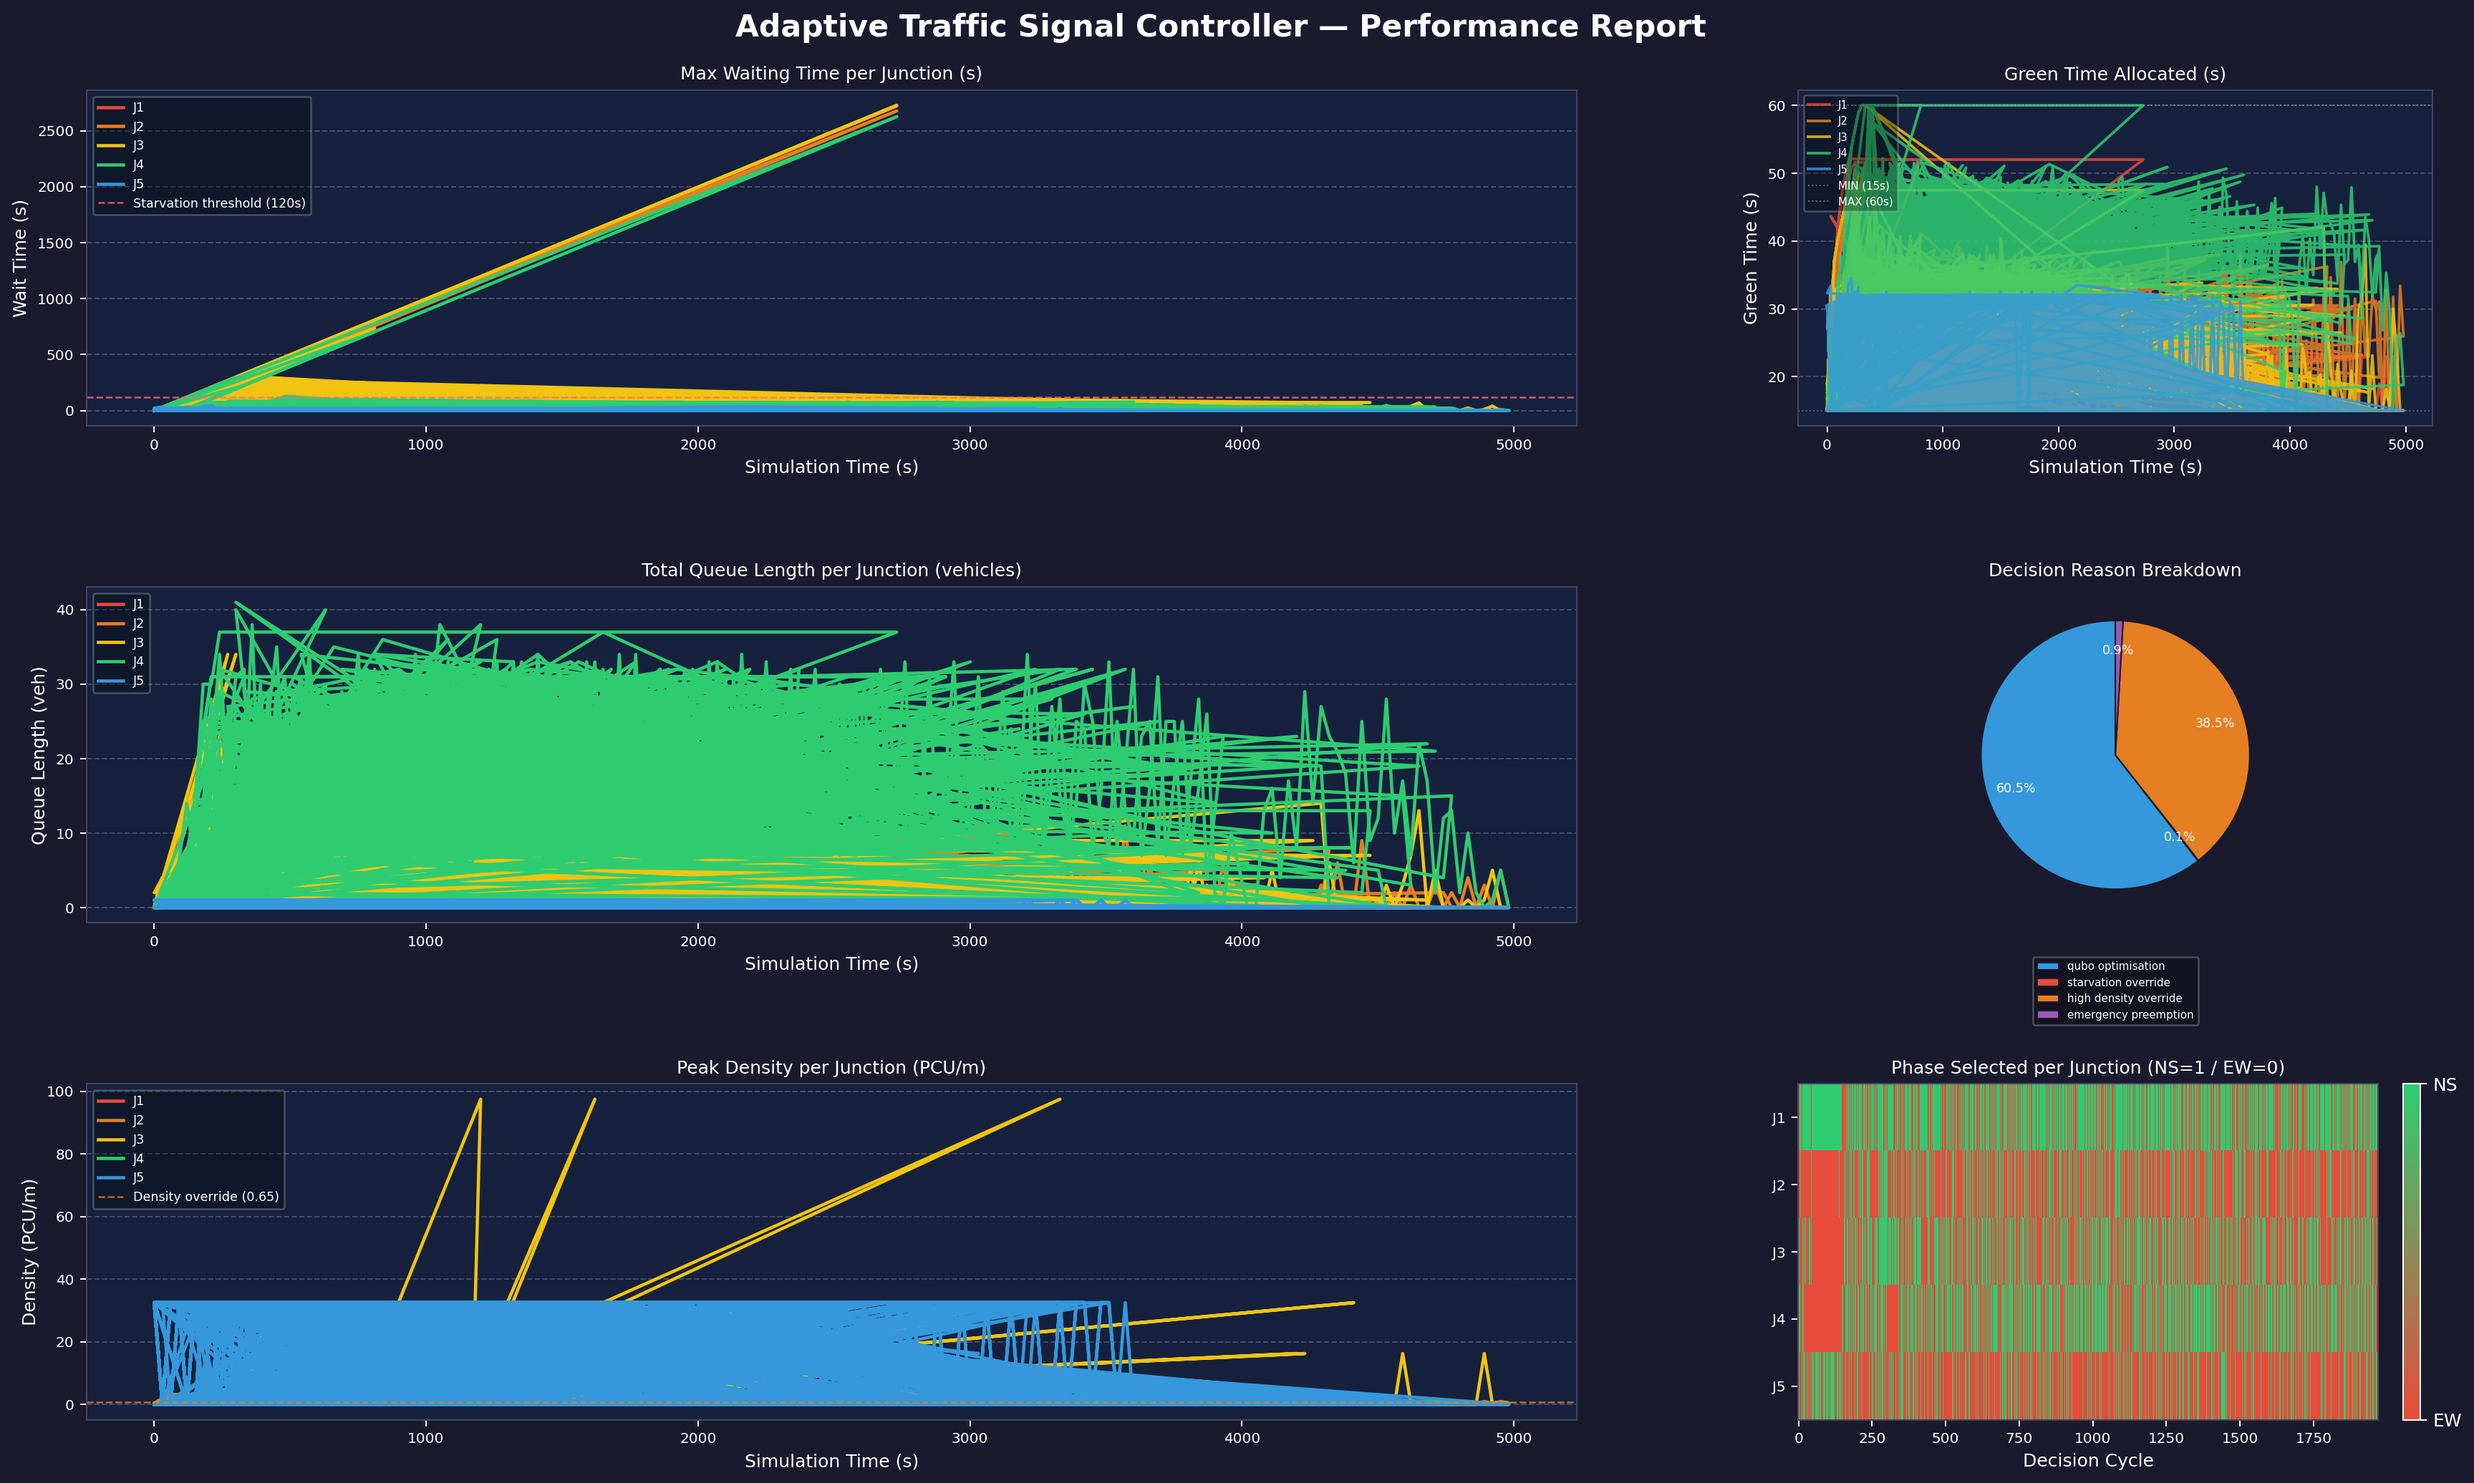
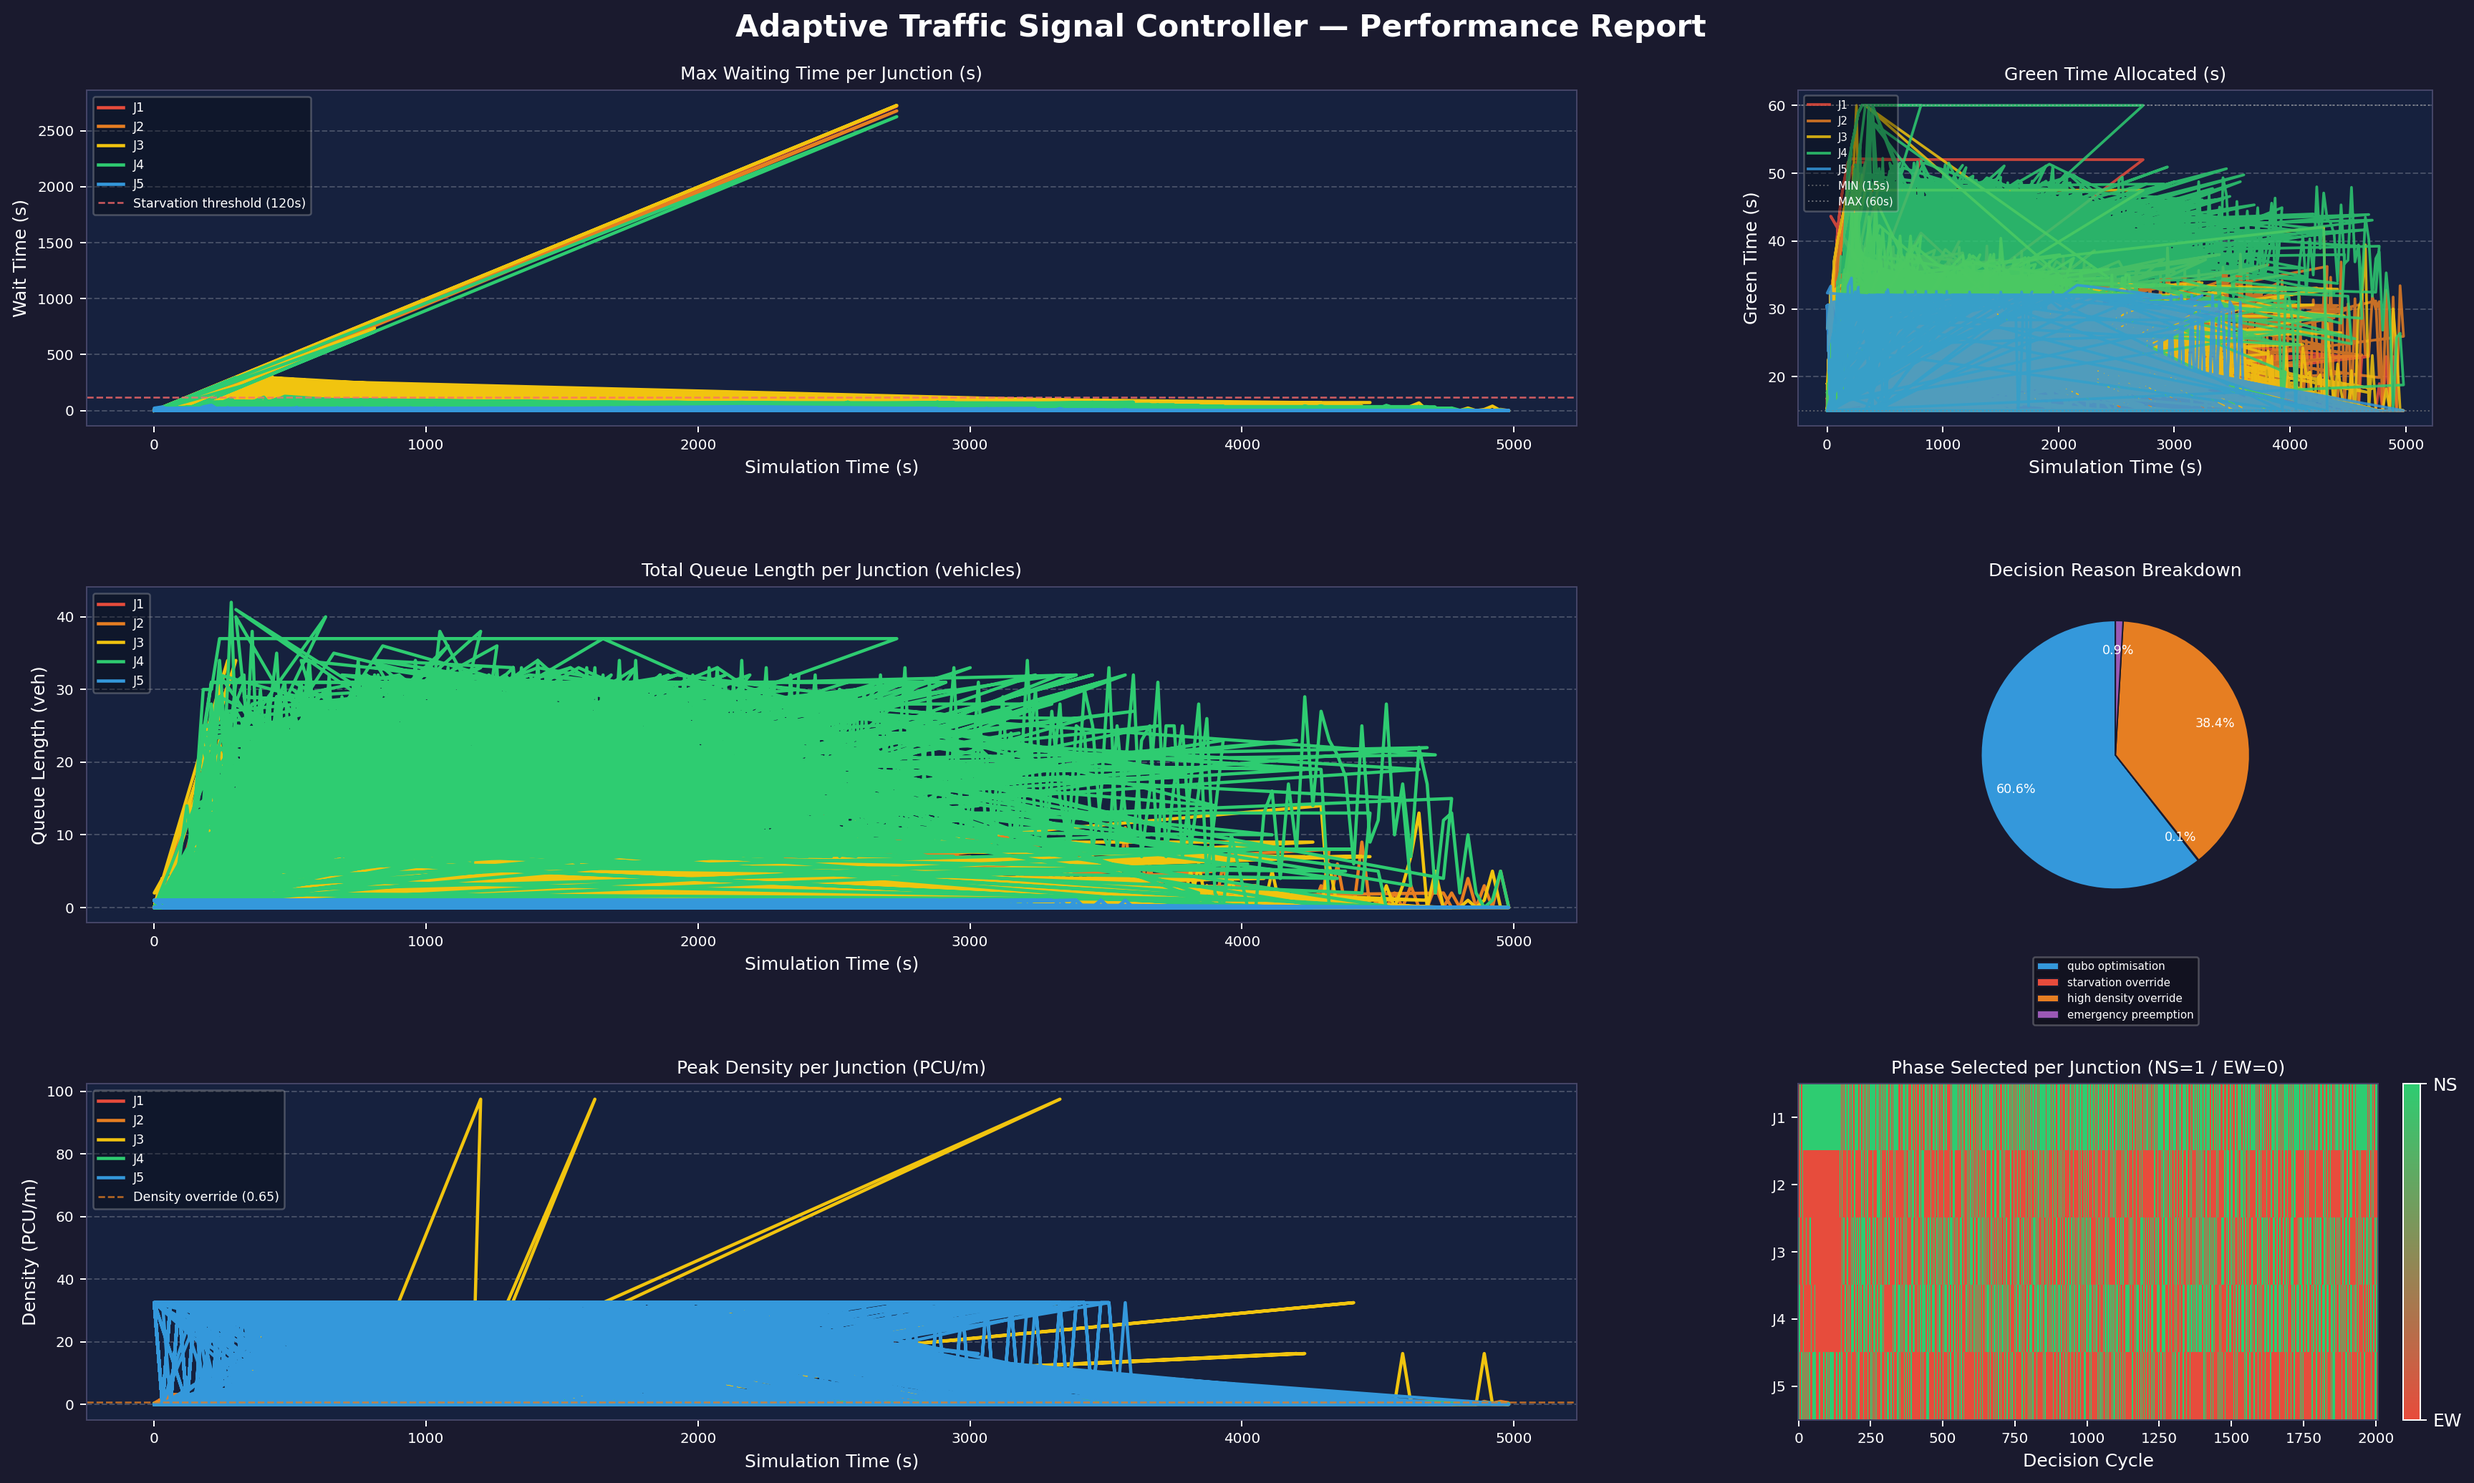
added automatically choose

Changed region(s): [[0.0619, 0.4015, 0.5884, 0.6178], [0.7123, 0.7104, 0.9601, 0.9575]]

diff --git a/config.py b/config.py
@@ -66,7 +66,52 @@ GPS_FUSION_WEIGHT = 0.4   # blend factor: final_density = (1-w)*sensor + w*gps_e
 
 # --- Emergency detection ---
 YOLO_CONF_THRESHOLD = 0.6   # min confidence to accept a YOLO emergency-vehicle detection
-EMERGENCY_HOLD_TIMEOUT = 14
+
+# --- Automatic EMERGENCY_HOLD_TIMEOUT selection ----------------------------
+# The hold timeout is NO LONGER hardcoded: it is derived automatically from
+# the physical inputs below, so it always reflects the current network and
+# signal settings. Edit any input here and the timeout recomputes itself --
+# no manual tuning or simulation sweeps required.
+#
+# What the hold must cover (worst case, from preemption trigger):
+#   1. Time for the EV to cross the intersection box        (distance / speed)
+#   2. Delay discharging queued vehicles ahead of the EV     (queue * headway)
+#   3. Safe signal transition back to normal control      (yellow + all-red)
+#   4. Detection/decision latency margin                        (small buffer)
+# The result is clamped to [HOLD_FLOOR_S, HOLD_CEILING_S] so it can never be
+# unsafe-short nor wastefully-long.
+#
+# Validation: under the default assumptions below the formula evaluates to
+# 2.40 + 6.00 + 5.00 + 1.00 = 14.4s -> 14s, exactly matching the previously
+# hand-tuned hardcoded value, which confirms the model.
+EMERGENCY_HOLD_AUTO = True            # False -> use EMERGENCY_HOLD_TIMEOUT_MANUAL
+EMERGENCY_HOLD_TIMEOUT_MANUAL = 14    # legacy hand-tuned fallback
+
+EV_ASSUME_SPEED_MPS = 8.33                  # ~30 km/h, conservative urban EV speed
+INTERSECTION_CLEARANCE_DISTANCE_M = 20.0    # stop line -> fully clear of the box
+QUEUE_DISCHARGE_HEADWAY_S = 2.0             # startup lost time per queued vehicle
+AVG_QUEUE_AHEAD_OF_EV = 3                   # expected vehicles queued ahead of EV
+DETECTION_REACTION_BUFFER_S = 1.0           # sensor->controller latency margin
+HOLD_FLOOR_S = 8                            # lower bound: never unsafe-short
+HOLD_CEILING_S = 25                         # upper bound: never wastefully-long
+
+
+def _compute_emergency_hold_timeout() -> int:
+    """Derive the optimal emergency-hold duration (seconds) from the
+    physical parameters above. Pure arithmetic -- no I/O, no imports."""
+    ev_speed = max(EV_ASSUME_SPEED_MPS, 0.1)   # guard against divide-by-zero
+    crossing_s = INTERSECTION_CLEARANCE_DISTANCE_M / ev_speed
+    queue_s = AVG_QUEUE_AHEAD_OF_EV * QUEUE_DISCHARGE_HEADWAY_S
+    transition_s = YELLOW_TIME_SECONDS + ALL_RED_TIME_SECONDS
+    total_s = crossing_s + queue_s + transition_s + DETECTION_REACTION_BUFFER_S
+    clamped = min(max(total_s, float(HOLD_FLOOR_S)), float(HOLD_CEILING_S))
+    return int(round(clamped))
+
+
+if EMERGENCY_HOLD_AUTO:
+    EMERGENCY_HOLD_TIMEOUT = _compute_emergency_hold_timeout()
+else:
+    EMERGENCY_HOLD_TIMEOUT = EMERGENCY_HOLD_TIMEOUT_MANUAL
 
 # --- Incident isolation / clearance ---
 INCIDENT_CV_ZERO_OUTFLOW_TICKS = 6
